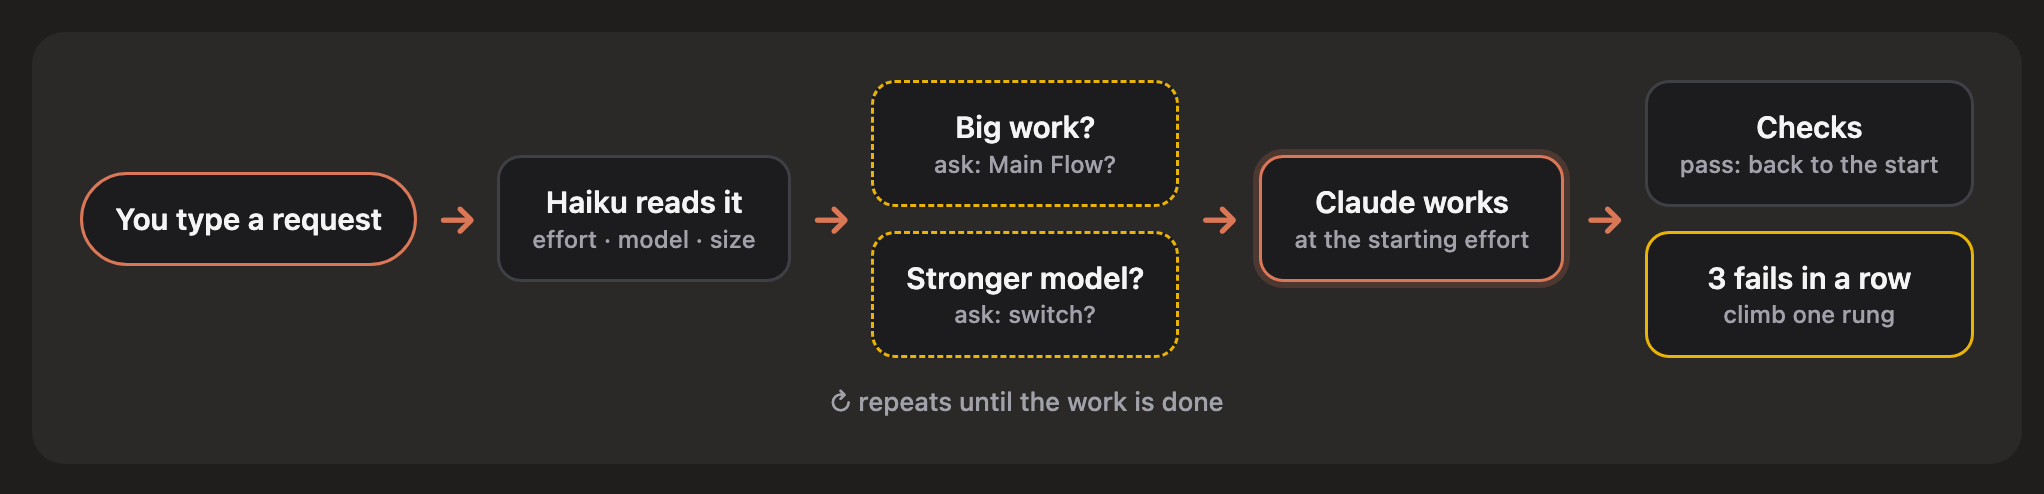
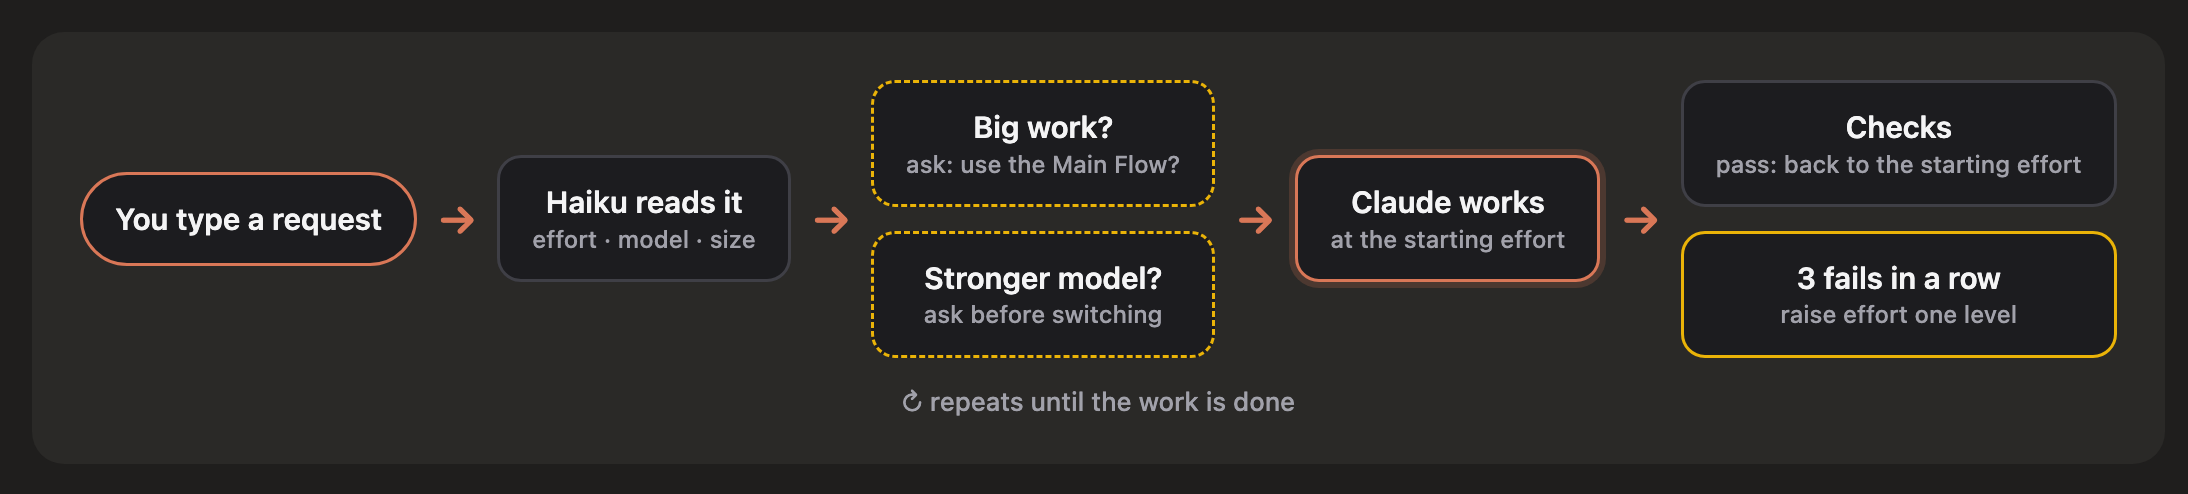
docs: make every sentence say one thing, in English and Thai
Rewrites the lines that could be read two ways (Claude stops and then asks, not stops
asking; back to the starting effort, not back to where it is), in the READMEs and in the
labels of their images.

diff --git a/README.th.md b/README.th.md
@@ -20,10 +20,10 @@
 ## ฟีเจอร์
 
 - 🎯 **เลือก effort ให้อัตโนมัติ:** Haiku จะดูงานที่คุณสั่งก่อน งานง่ายใช้ `low` งานยากใช้ `xhigh`
-- 📈 **งานติดก็เพิ่ม effort ให้เอง:** ถ้า test หรือ lint ไม่ผ่านติดกัน 3 ครั้ง จะเพิ่ม effort ทีละระดับ ถ้ายังไม่ผ่านจะสลับไปใช้ Fable 5.1 และสุดท้ายจะหยุดถามคุณ
-- 🧠 **ถามก่อนเปลี่ยนโมเดล:** ถ้างานควรใช้โมเดลที่เก่งกว่า Claude จะถามคุณก่อนหนึ่งครั้ง
+- 📈 **งานติดก็เพิ่ม effort ให้เอง:** ถ้า test หรือ lint ไม่ผ่านติดกัน 3 ครั้ง จะเพิ่ม effort ขึ้นทีละระดับ ถ้ายังไม่ผ่านจะเปลี่ยนไปใช้ Fable 5.1 และถ้ายังไม่ผ่านอีก Claude จะหยุดทำ แล้วถามคุณว่าจะเอายังไงต่อ
+- 🧠 **ถามก่อนเปลี่ยนโมเดล:** ถ้างานควรใช้โมเดลที่เก่งกว่าที่ใช้อยู่ Claude จะถามคุณก่อนว่าจะเปลี่ยนไหม
 - 🗺 **รองรับ Main Flow ของ Matt Pocock:** ตั้งแต่ grill จนถึง retro แต่ละขั้นตอนและแต่ละ ticket ใช้ effort ที่ต่างกันได้
-- 👀 **เห็นตลอดว่าใช้อะไรอยู่:** แถบเหนือช่องแชทบอก effort โมเดล และเหตุผล ส่วน pane ด้านข้างไว้เปิดปิด เปลี่ยนธีม และดูประวัติ
+- 👀 **เห็นตลอดว่าใช้อะไรอยู่:** แถบเหนือช่องแชทบอกว่าตอนนี้ใช้ effort และโมเดลอะไร เพราะอะไร ส่วน pane ด้านข้างไว้เปิดปิด เปลี่ยนธีม และดูประวัติ
 
 ## ติดตั้ง
 
@@ -40,26 +40,26 @@
 ## หลักการทำงาน
 
 <p align="center">
-  <img src="docs/images/flow-th.png" width="760" alt="คุณสั่งงาน, Haiku ดูงาน, ถ้างานใหญ่หรือควรใช้โมเดลที่เก่งกว่า Claude จะถามก่อน, Claude เริ่มทำงานด้วย effort ที่เลือกไว้, ถ้า test ไม่ผ่านติดกัน 3 ครั้งจะเพิ่ม effort อีกระดับ">
+  <img src="docs/images/flow-th.png" width="760" alt="คุณสั่งงาน, Haiku ดูงาน, ถ้างานใหญ่หรือควรใช้โมเดลที่เก่งกว่า Claude จะถามคุณก่อน, Claude เริ่มทำงานด้วย effort ที่เลือกไว้, test ผ่านจะกลับไปที่ effort เริ่มต้น, ถ้าไม่ผ่านติดกัน 3 ครั้งจะเพิ่ม effort ขึ้นหนึ่งระดับ">
 </p>
 
 ### ลำดับการเพิ่ม effort
 
 <p align="center">
-  <img src="docs/images/ladder-th.png" width="640" alt="low, medium, high, xhigh แล้วสลับไป Fable 5.1 ที่ high, xhigh, max ถ้ายังไม่ผ่าน Claude จะถามคุณ">
+  <img src="docs/images/ladder-th.png" width="640" alt="low, medium, high, xhigh แล้วเปลี่ยนไป Fable 5.1 ที่ high, xhigh, max ถ้ายังไม่ผ่านอีก Claude จะหยุดทำ แล้วถามคุณ">
 </p>
 
-พอ test ผ่าน effort จะกลับไปเท่าเดิม
+พอ test ผ่าน effort จะกลับไปที่ระดับเริ่มต้นของงานนั้น
 
 <p align="center">
-  <img src="docs/images/states-th.png" width="760" alt="หน้าตาของแถบในแต่ละสถานะ: เลือก effort แล้ว, test ไม่ผ่าน, เพิ่ม effort, สลับไป Fable 5.1 และหยุดถามคุณ">
+  <img src="docs/images/states-th.png" width="760" alt="หน้าตาของแถบในแต่ละสถานะ: เลือก effort เริ่มต้น, test ไม่ผ่าน, เพิ่ม effort, เปลี่ยนไป Fable 5.1 และ Claude หยุดทำแล้วถามคุณ">
 </p>
 
 ### effort เริ่มต้น
 
 | Haiku ประเมินว่า | effort |
 |---|---|
-| รู้ชัดว่าต้องทำอะไร (เช่น เปลี่ยนชื่อ, ทำตามแบบที่มีอยู่แล้ว) | `low` |
+| รู้ชัดว่าต้องทำอะไรและทำยังไง (เช่น เปลี่ยนชื่อ, ทำตามแบบที่มีอยู่แล้ว) | `low` |
 | รู้เป้าหมาย แต่ต้องคิดวิธีทำ | `medium` |
 | ยังไม่รู้ชัดว่าจะทำยังไง | `high` |
 | ยากเป็นพิเศษ (เช่น concurrency, ย้ายข้อมูล) | `xhigh` |
@@ -78,7 +78,7 @@ mod จะไม่เลือก `max` ให้เอง
 | effort | `high` | `high` | `medium` | `high` | `xhigh` | `medium` |
 
 - Main Flow ใช้ **Opus 5.5** เป็นค่าเริ่มต้น เปลี่ยนเป็น **Fable 5.1** หรือใช้ **โมเดลเดียวกับ session** ได้ใน pane
-- แต่ละ ticket กำหนด `Model:` และ `Effort:` ของตัวเองได้ ถ้าส่งให้ sub-agent ทำ จะใช้ค่าตาม ticket
+- แต่ละ ticket กำหนด `Model:` และ `Effort:` ของตัวเองได้ ถ้าส่ง ticket ให้ sub-agent ทำ sub-agent จะใช้โมเดลและ effort ตามที่ ticket ระบุ
 - ต้องติดตั้ง [skill ของ Matt Pocock](https://github.com/mattpocock/skills) ก่อน ถ้ายังไม่ครบ pane จะบอกว่าขาดตัวไหน
 
 ## Pane
@@ -104,7 +104,7 @@ mod จะไม่เลือก `max` ให้เอง
 
 ### งานหนึ่งใช้โมเดลเดียว
 
-งานหนึ่งจะใช้โมเดลเดิมตั้งแต่ต้นจนจบ เพื่อไม่ให้ prompt cache หาย โมเดลจะเปลี่ยนแค่ 3 กรณี คือ คุณตกลงเปลี่ยนตอนเริ่มงาน, ตอนเริ่ม Main Flow และตอนที่ effort เกิน `xhigh` จนต้องสลับไป Fable 5.1 และจะไม่ลดโมเดลลงเอง
+งานหนึ่งจะใช้โมเดลเดิมตั้งแต่ต้นจนจบ เพื่อไม่ให้ prompt cache หาย โมเดลจะเปลี่ยนแค่ 3 กรณี คือ คุณตกลงเปลี่ยนตอนเริ่มงาน, ตอนเริ่ม Main Flow และตอนที่ effort เกิน `xhigh` จนต้องเปลี่ยนไป Fable 5.1 และจะไม่เปลี่ยนไปใช้โมเดลที่ด้อยกว่าเอง
 
 ### โมเดลกับ effort
 
@@ -112,7 +112,7 @@ mod จะไม่เลือก `max` ให้เอง
 
 ### คำสั่งแบบไหนที่นับ
 
-นับ test, typecheck, build และ lint (JavaScript/TypeScript, Python, Go, Rust, test ของ Node และ make) โดยนับเฉพาะเมื่อผลของคำสั่งนั้นเป็นผลสุดท้ายของทั้งบรรทัด ถ้ามี `;` หรือ `||` ต่อท้าย, ส่งต่อด้วย `|` โดยไม่ได้ตั้ง `set -o pipefail` หรือรันเป็น background จะไม่นับ
+นับ test, typecheck, build และ lint (JavaScript/TypeScript, Python, Go, Rust, test ของ Node และ make) โดยนับเฉพาะเมื่อคำสั่งนั้นเป็นตัวตัดสินว่าทั้งบรรทัดผ่านหรือไม่ผ่าน คืออยู่ท้ายสุด หรือต่อด้วย `&&` เท่านั้น ถ้ามี `;` หรือ `||` ต่อท้าย, ส่งต่อด้วย `|` โดยไม่ได้ตั้ง `set -o pipefail` หรือรันเป็น background จะไม่นับ
 
 ### sub-agent
 
@@ -121,13 +121,13 @@ mod จะไม่เลือก `max` ให้เอง
 | Explore | Haiku · `low` |
 | Plan | โมเดลเดียวกับ session · `high` |
 | general-purpose | โมเดลเดียวกับ session · effort เท่ากับงานหลัก |
-| แบบที่คุณสร้างเอง | ไม่ไปยุ่ง |
+| แบบที่คุณสร้างเอง | ไม่ปรับให้ |
 
 ### ข้อมูลและความเป็นส่วนตัว
 
 - ข้อมูลทั้งหมดเก็บไว้ในเครื่องคุณ ใน plugin store ของ Claude Code
 - ประวัติไม่ได้เก็บข้อความที่คุณพิมพ์ เก็บแค่เวลา, effort, ผลประเมิน, จำนวนครั้ง และชื่อโมเดล
-- mod ไม่ได้ส่งข้อมูลออกไปไหนเอง สิ่งเดียวที่ส่งคือให้ Haiku ประเมินงานใหม่ (รวมข้อความท้ายๆ ของ Claude ถ้ามีงานค้างอยู่) หรือประเมิน ticket ที่ไม่ได้ระบุ `Model:` และ `Effort:` ซึ่งส่งผ่าน Claude Code ตามปกติ
+- mod ไม่ได้ส่งข้อมูลออกไปไหนเอง สิ่งเดียวที่ส่งคือให้ Haiku ประเมินงานใหม่ (ถ้ามีงานค้างอยู่ จะส่งข้อความล่าสุดของ Claude ไปบางส่วนด้วย) หรือประเมิน ticket ที่ไม่ได้ระบุ `Model:` และ `Effort:` ซึ่งส่งผ่าน Claude Code ตามปกติ
 - อ่านไฟล์แค่ ticket (`<feature>/issues/NN-*.md`) ตอนอยู่ในขั้นตอน implement และไม่เขียนไฟล์ใดๆ
 - จะเพิ่มข้อความแนะนำให้ Claude ในแชท และเพิ่ม tool 3 ตัว คือ `stage`, `model` และ `report`
 
@@ -136,7 +136,7 @@ mod จะไม่เลือก `max` ให้เอง
 - API สำหรับ mod ของ Claude Code ยังใหม่อยู่ อาจมีการเปลี่ยนแปลง
 - ถ้าเปลี่ยนโมเดลของงาน prompt cache ของงานนั้นจะต้องเริ่มใหม่
 - ถ้า Haiku ตอบช้า request แรกๆ ของ turn นั้นจะใช้ effort ของ session ไปก่อน
-- ข้อความที่ส่งให้ Claude เป็นแค่คำแนะนำ ไม่ได้บังคับ
+- ข้อความที่ mod ส่งให้ Claude เป็นแค่คำแนะนำ Claude อาจไม่ทำตามทุกครั้ง
 
 </details>
 

diff --git a/README.md b/README.md
@@ -20,10 +20,10 @@
 ## What it does
 
 - 🎯 **Fits the effort.** Haiku reads each new request: a clear plan starts at `low`, a hard one at `xhigh`.
-- 📈 **Climbs when stuck.** Three failing checks in a row raise the effort, then move to Fable 5.1, then ask you.
-- 🧠 **Picks the model, with your say.** Work that needs a stronger model asks you once before it switches.
+- 📈 **Raises the effort when stuck.** Three failing checks in a row raise the effort one level. Past the highest level it switches to Fable 5.1, and if checks still fail, Claude stops and asks you what to do.
+- 🧠 **Asks before switching models.** If the work needs a stronger model than the session's, Claude asks you first.
 - 🗺 **Runs Matt Pocock's Main Flow.** Grill to retro, every stage and every ticket at its own effort.
-- 👀 **Shows you why.** A band above the prompt, and a pane with switches, themes and history.
+- 👀 **Shows what it uses, and why.** A band above the prompt shows the effort and model in use; a pane holds the switches, themes and history.
 
 ## Install
 
@@ -40,16 +40,16 @@ Nothing to set up: the band appears as soon as it is installed.
 ## How it works
 
 <p align="center">
-  <img src="docs/images/flow-en.png" width="760" alt="You type a request, Haiku reads it, Claude asks about big work or a stronger model, Claude works at the starting effort, and three failing checks in a row climb one rung">
+  <img src="docs/images/flow-en.png" width="760" alt="You type a request, Haiku reads it, Claude asks you about big work or a stronger model, Claude works at the starting effort, a passing check returns to the starting effort, and three failing checks in a row raise it one level">
 </p>
 
 ### The ladder
 
 <p align="center">
-  <img src="docs/images/ladder-en.png" width="640" alt="low, medium, high, xhigh, then Fable 5.1 at high, xhigh and max, then Claude asks you">
+  <img src="docs/images/ladder-en.png" width="640" alt="low, medium, high, xhigh, then Fable 5.1 at high, xhigh and max; if checks still fail, Claude stops and asks you">
 </p>
 
-A passing check settles the effort back to where it started.
+When a check passes, the effort goes back to the level the task started at.
 
 <p align="center">
   <img src="docs/images/states.png" width="760" alt="The band in each state: scored, a failing check, a climb, Fable 5.1, and stopped at the top">
@@ -59,7 +59,7 @@ A passing check settles the effort back to where it started.
 
 | Haiku reads | Effort |
 |---|---|
-| A clear plan (a rename, a known pattern) | `low` |
+| You know what to do and how (a rename, a known pattern) | `low` |
 | A known goal, the way needs thought | `medium` |
 | The plan is not clear yet | `high` |
 | Unusually hard (concurrency, migrations) | `xhigh` |
@@ -78,7 +78,7 @@ The mod never picks `max` by itself.
 | Effort | `high` | `high` | `medium` | `high` | `xhigh` | `medium` |
 
 - The flow runs on **Opus 5.5** by default. Pick **Fable 5.1** or **the session's model** in the pane.
-- Each ticket carries its own `Model:` and `Effort:`. A sub-agent working a ticket runs on both.
+- Each ticket can set its own `Model:` and `Effort:`. A sub-agent given a ticket uses the model and effort the ticket sets.
 - Needs [Matt Pocock's skills](https://github.com/mattpocock/skills). The pane says which are missing.
 
 ## The pane
@@ -104,7 +104,7 @@ Open it with `/open-effort` or the band's **≡**.
 
 ### One model per task
 
-A task keeps one model from start to end, so the prompt cache holds. It changes only when you agree to a stronger model at the start, when it enters the Main Flow, or when it climbs past `xhigh` to Fable 5.1. It never steps down.
+A task keeps one model from start to end, so the prompt cache holds. It changes only when you agree to a stronger model at the start, when it enters the Main Flow, or when the effort goes past `xhigh` and it switches to Fable 5.1. It never switches to a weaker model by itself.
 
 ### Models and effort
 
